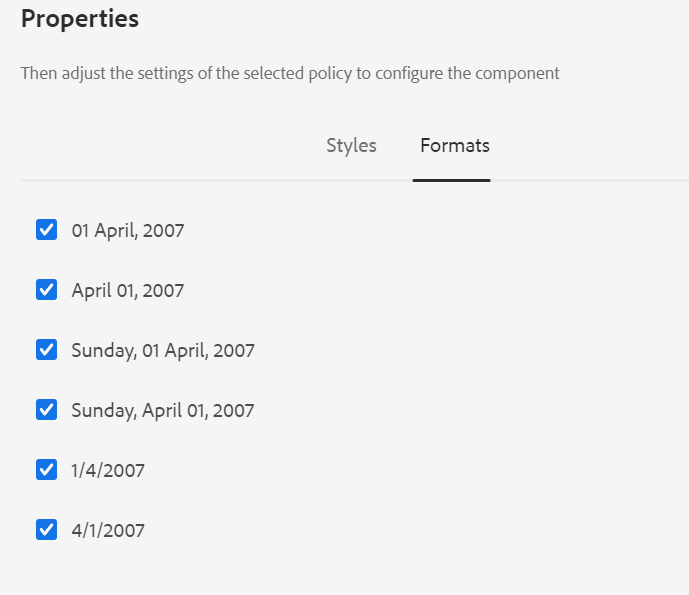
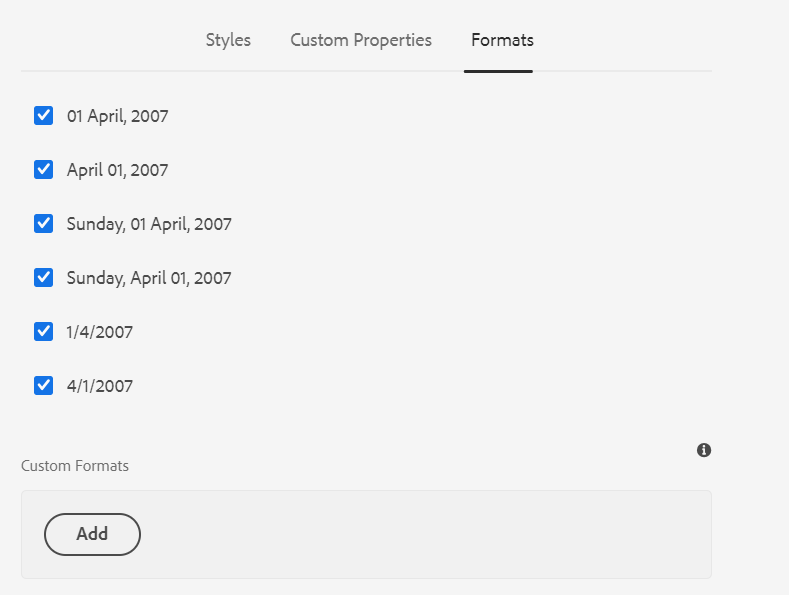
updated datepicker article

diff --git a/help/adaptive-forms/components/date-picker.md b/help/adaptive-forms/components/date-picker.md
@@ -63,6 +63,8 @@ You can easily customize your date picker experience for visitors with the Confi
 
 *   **Placeholder text** - Placeholder text in a form component refers to a short label or prompt that appears within an input field as a hint to the user on what type of information is expected to be entered in that field. Placeholder text disappears when the user starts typing into the field and reappears if the field is left empty. It provides a visual cue to the user, but does not act as a permanent label or value for the field.
 
+* **Mark as Unbound Form Element**: Select the option to configure a form field not linked to any schema. This option allows you to save data without updating the data source. It also enables you to handle data in a custom way, separate from standard database integration.
+
 *   **Hide Component** - Select the option to hide the component from the form. The component remains accessible for other purposes, such as using it for calculations in the Rule Editor. This is useful when you need to store information that doesn't need to be seen or directly changed by the user. 
 *   **Disable Component** - Select the option to disable the component. The disabled component is not active or editable by the end user. The user can see the value of the field but cannot modify it. The component remains accessible for other purposes, such as using it for calculations in the Rule Editor.
 *   **Read-only** - Select the option to make the component non-editable. The user can see the value of the field but cannot modify it. The component remains accessible for other purposes, such as using it for calculations in the Rule Editor.
@@ -130,6 +132,20 @@ The tab is used to define and manage CSS styles for a component. The Adaptive Fo
 * **Default CSS Classes**: You can provide a default CSS class for the Adaptive Forms Date-picker Core Component. 
 
 * **Allowed Styles**: You can define styles by providing a name and the CSS class that represents the style. For example, you can create a style named "bold text" and provide the CSS class "font-weight: bold". You can use or apply these styles to an Adaptive Form in Adaptive Forms editor. To apply a style, in Adaptive Forms editor, select the component you want to apply the style to, navigate to the properties dialog, and select the desired style from the **Styles** drop-down list. If you need to update or modify the styles, simply return to the Design Dialog, update the styles in the styles tab, and save the changes.
+
+### Custom Properties 
+
+![Custom Properties Dialog](/help/adaptive-forms/assets/datepicker_customproperties.png)
+
+Custom properties allows you to associate custom attributes (key-value pairs) to an Adaptive Form core component using the form template. The custom properties are reflected in the properties section of the headless rendition of the component. It allows creating dynamic form behavior that adapts based on the custom attributes values. For example, developers can design various renditions of a Headless Forms component for mobile, desktop, or web platforms, significantly enhancing the user experience across a wide array of devices.
+
+- **Group Name**: You can provide a name to identify the custom property group. You can add, delete, or rearrange multiple custom property groups. After adding the custom property group, you can see the following options:
+
+    - **Key-Value Pairs**: You can add multiple custom property names and custom property values by clicking the **Add** button for each custom property group.
+
+    - **Delete**: Tap or click to delete the custom property name and custom property value.
+
+    - **Rearrange**: Tap or click and drag to rearrange the order of the custom property name and custom property value.
 
 ### Formats Tab {#formats-tab}
 
